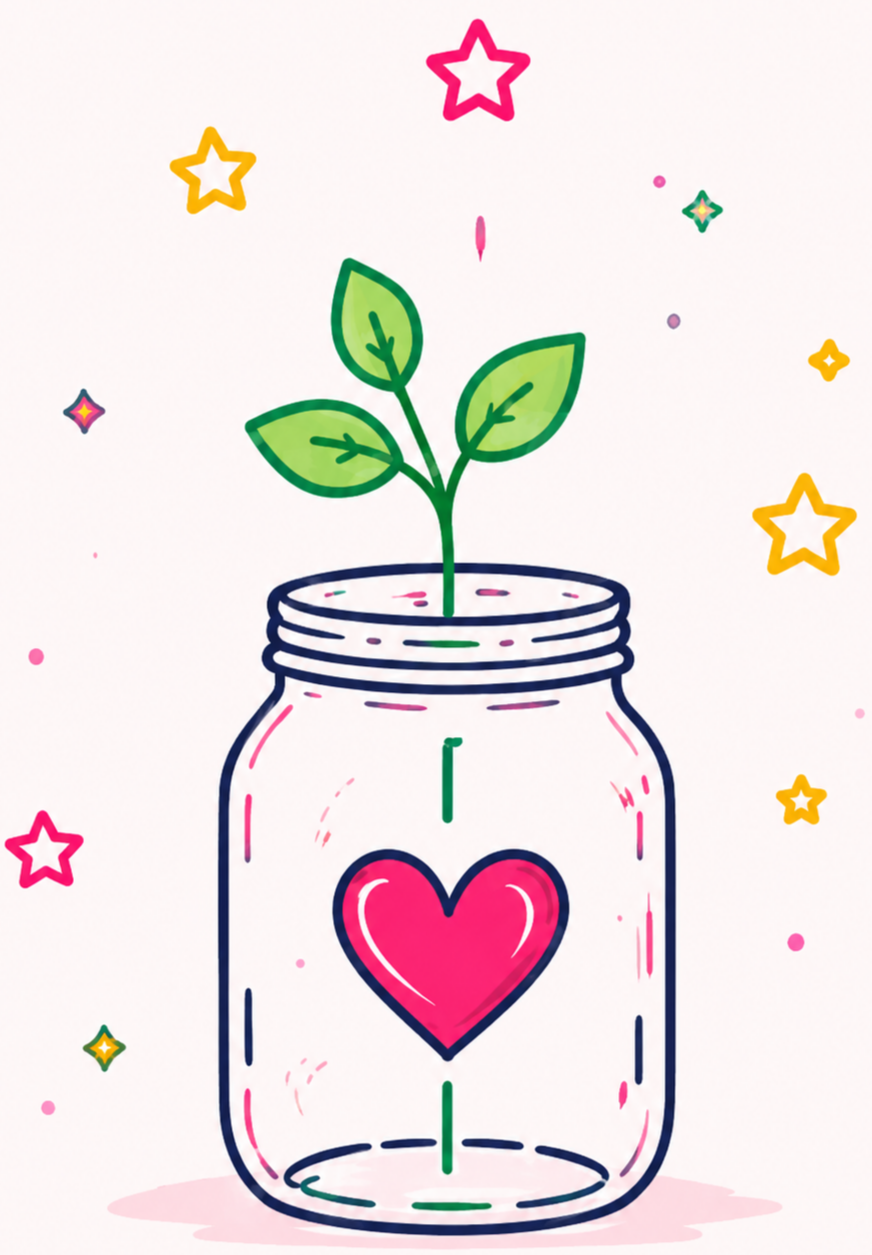
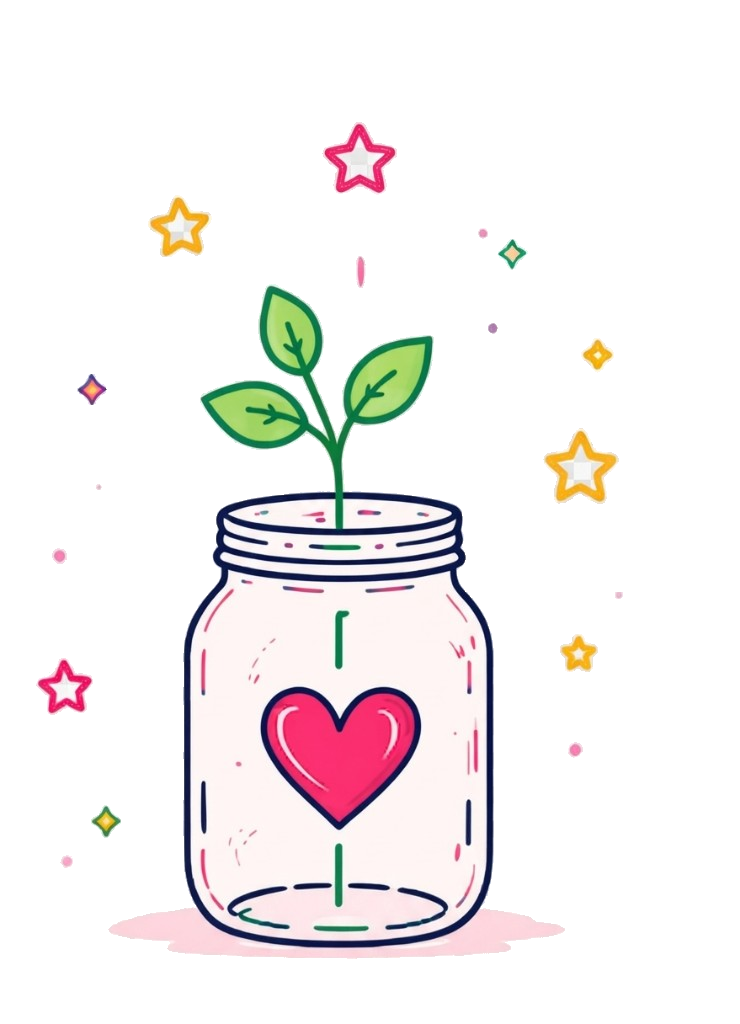
ggggg

diff --git a/assets/css/style.css b/assets/css/style.css
@@ -7464,6 +7464,12 @@ img.lazy-img.loaded {
   min-width: 0;
   margin-left: 0.25rem;
   padding-top: 0.1rem;
+  background: transparent;
+}
+
+.our-story__media .lazy-img-wrap {
+  background: transparent;
+  overflow: visible;
 }
 
 .our-story__photo {
@@ -7471,6 +7477,7 @@ img.lazy-img.loaded {
   width: 100%;
   height: auto;
   object-fit: contain;
+  background: transparent;
 }
 
 .our-story__content {

diff --git a/page-about.php b/page-about.php
@@ -87,8 +87,8 @@ $about_story_title = bdc_get_acf_text(
 	'Our Story',
 	$about_page_id
 );
-$about_story_photo_url = bdc_theme_asset_url( 'assets/images/our-story-photo.jpg' );
-$about_story_photo_ver = bdc_asset_version( 'assets/images/our-story-photo.jpg' );
+$about_story_photo_url = bdc_theme_asset_url( 'assets/images/our-story-photo.png' );
+$about_story_photo_ver = bdc_asset_version( 'assets/images/our-story-photo.png' );
 if ( $about_story_photo_ver ) {
 	$about_story_photo_url = add_query_arg( 'v', $about_story_photo_ver, $about_story_photo_url );
 }
@@ -117,8 +117,8 @@ $about_story_paragraph_3 = bdc_get_acf_text(
 	'Today, we\'re building a small, intentional nonprofit community where children have opportunities to discover their talents, explore their own ideas, and grow into confident, kind, and creative people.',
 	$about_page_id
 );
-$about_story_jar_url = bdc_theme_asset_url( 'assets/images/our-story-jar.jpg' );
-$about_story_jar_ver = bdc_asset_version( 'assets/images/our-story-jar.jpg' );
+$about_story_jar_url = bdc_theme_asset_url( 'assets/images/our-story-jar.png' );
+$about_story_jar_ver = bdc_asset_version( 'assets/images/our-story-jar.png' );
 if ( $about_story_jar_ver ) {
 	$about_story_jar_url = add_query_arg( 'v', $about_story_jar_ver, $about_story_jar_url );
 }
